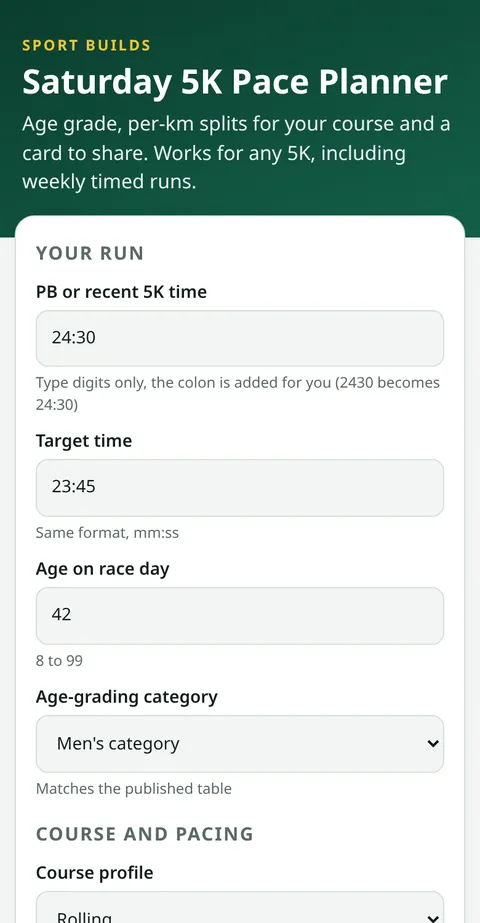
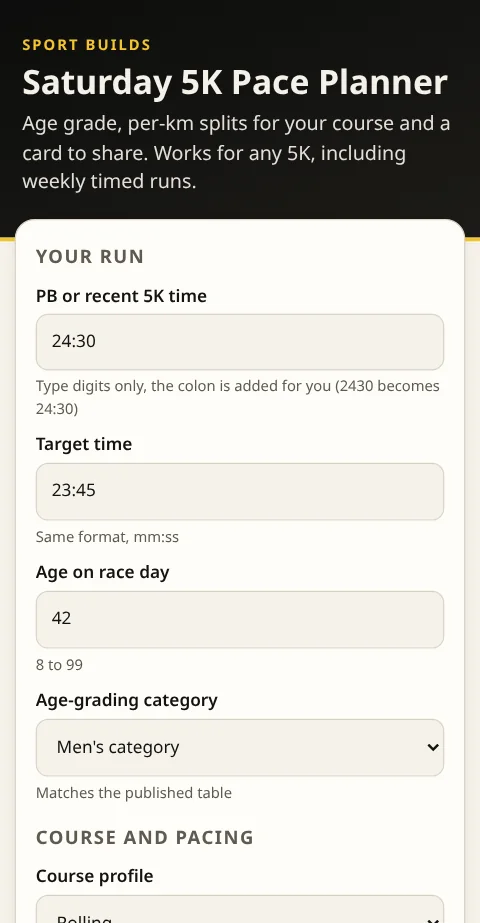
Neutral planner screenshots (example data), planner shot script, Kit live-test log

diff --git a/docs/BUILD_LOG.md b/docs/BUILD_LOG.md
@@ -159,3 +159,17 @@ Fix:
 - Verification, live (new deployment 72d5d7d5, 15 s): HTML 200 with must-revalidate; hashed assets 200 with immutable; fresh Chrome profile and a warm-cache second load, dark and light: near-black `rgb(12,12,11)` / warm off-white `rgb(245,242,234)`, 0 green elements outside images, 0 external requests, 0 console issues; `verify.mjs` and the 7 Kit-form scenarios pass.
 - Stale-cache simulation (local server, one Chrome profile, same origin): visited the old green build (CSS cached for 3600 s, body `rgb(9,19,15)`), swapped to the new build at the same address, reloaded: the page requested the new hashed CSS and showed `rgb(12,12,11)`.
 - Note for anyone testing: the first load after this deploy needs no hard refresh; later deploys will not need one either.
+
+## Round 6: Kit live test and neutral planner screenshots (Mon 26 Oct, about 13:10 to 13:50 Europe/London)
+### A) Kit end-to-end test (one real sign-up, address supplied by Tim)
+- Submitted `norris1976+testingsportsbuild@gmail.com`, first name "Test", through the live preview form in headless Chrome. Kit answered HTTP 200 with `status: "quarantined"` and a `https://app.kit.com/forms/guards/<id>` URL, not `success`.
+- Meaning: Kit's spam guard holds the sign-up until the person passes a reCAPTCHA on a Kit page. Kit's own embed script sends a reCAPTCHA token with the form; ours deliberately does not (no third-party scripts, strict CSP), so Kit quarantines it. No confirmation email is sent until the check is passed.
+- **Bug found:** `public/assets/subscribe.js` treated `quarantined` like `success` and told the visitor "Check your inbox", which was untrue. Fixed: on `quarantined` the form now says "One more step: Kit needs a quick security check before it can send your confirmation email" with a link to Kit's guard URL (only if it starts with `https://app.kit.com/`). Added `host` and `ckjs_version` (the non-personal fields Kit's embed also sends) to the POST. New scenario in `tools/verify-kit-form.mjs`; 8 scenarios pass with Kit mocked.
+- One retest with the same address after the fix (as approved): Kit still quarantined it, so the extra fields do not change the outcome. Open decision for Tim: accept the extra "security check" click for visitors, or allow Kit's own script and `frame-src`/`script-src` for `app.kit.com`/recaptcha in the CSP (more third-party code), or ask Kit support whether the guard can be relaxed for this form. I did not complete the reCAPTCHA myself.
+- Gmail (read-only): no email to the test address arrived (consistent with the quarantine). The Kit connector needs a paid Kit plan, so the subscriber record could not be checked.
+- Screenshots: `docs/screenshots/kit-live/`.
+
+### B) Neutral planner
+- Restyled the planner itself (colour tokens in `style.css`, share-card canvas, theme-color, favicon): near-black header with gold rule, warm off-white and near-black themes, gold accent, no green. Logic and 22 tests untouched. Redeployed to Vercel production; `tools/check-theme.mjs` in the planner repo checks AA contrast (worst 6.06 light, 7.26 dark) and zero green pixels.
+- New `tools/make-planner-shots.mjs` re-takes the three site images from the live planner with example data (the build asserts zero green pixels) and rewrote their alt text to say "example". Copies in `docs/screenshots/planner-neutral/`.
+- Broke: the first desktop shot caught a gold focus ring on the Age field; now blurred before the shot. The theme checker first flagged hero text because it ignored the gradient background; fixed in the checker.
